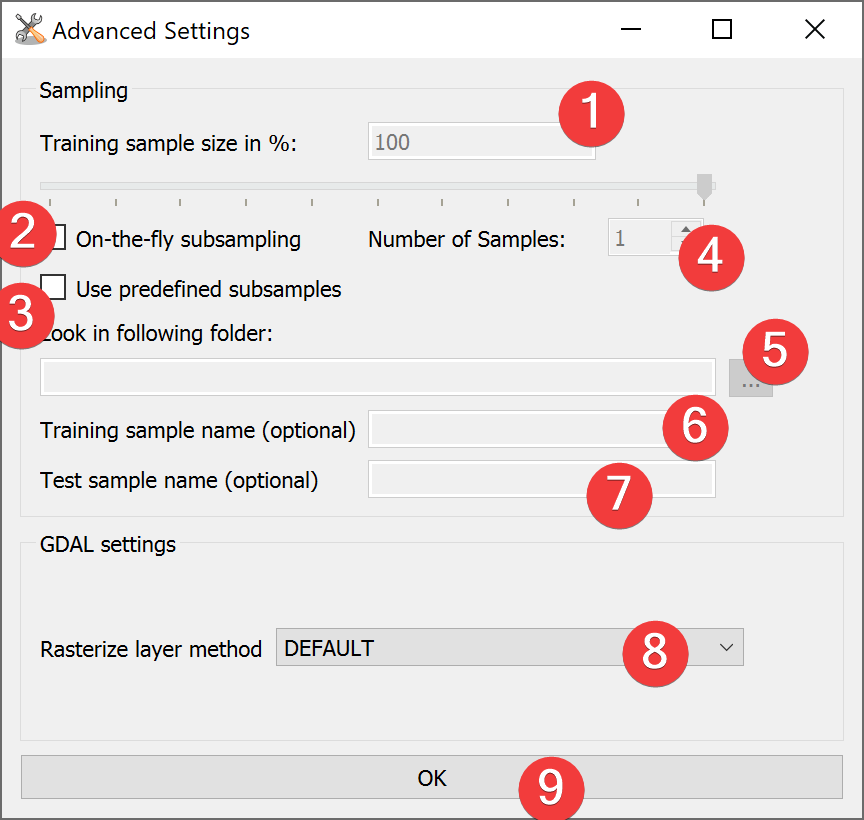
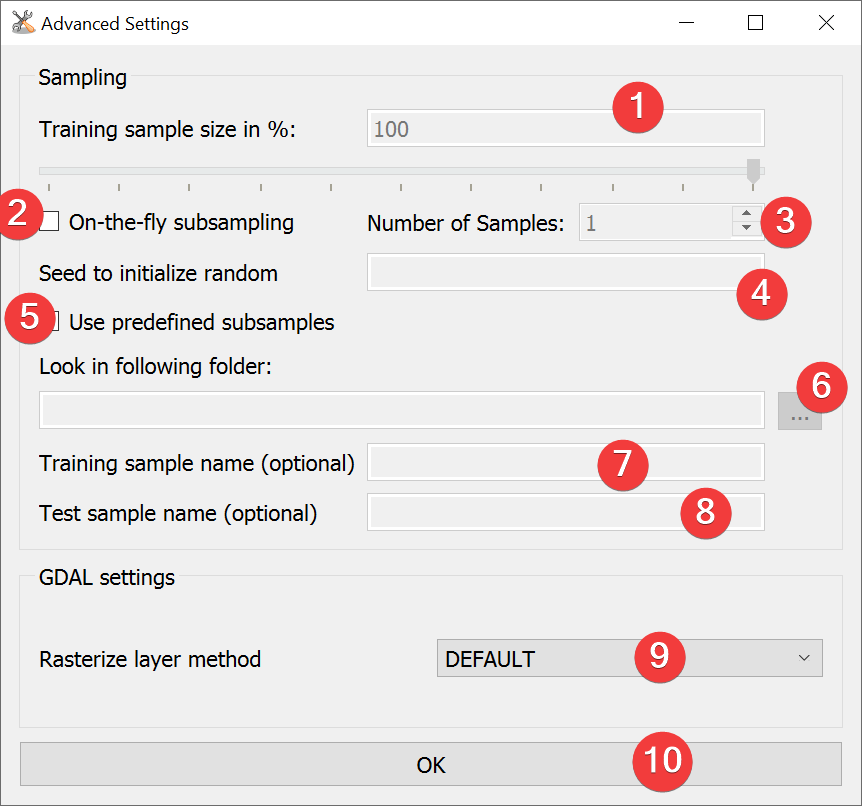
Updated Text and Screenshots to mention on-the-fly subsampling randomseed

diff --git a/source/ANALYSIS/Analysis/WofE.rst b/source/ANALYSIS/Analysis/WofE.rst
@@ -38,26 +38,27 @@ Advanced Settings
 Weight of Evidence uses the same Advanced Settings as
 :doc:`Model Builder</ANALYSIS/ModelManagment/ModelBuilder>`.
 
-#. | Choose between On-the-fly subsampling (2), predefined subsamples (3) or select neither to use
+#. | Choose between On-the-fly subsampling (2), predefined subsamples (5) or select neither to use
    | single sample mode
    
     * On-the-fly subsampling (2)
     
         #. | Set the size of the subsamples as percent of the import feature either by typing a 
            | number (1) or adjusting the slider.
-        #. Set the number of samples to generate on-the-fly
+        #. Set the number of samples to generate on-the-fly (3)
+        #. (Optional) Define a seed to initialize the random function (4)
         
-    * Predefined subsamples (3)
+    * Predefined subsamples (5)
     
         #. | Provide a path to the folder with the predefined subsamples. You can either type in
-           | the absolute path yourself or pick one with a dialog (5).
+           | the absolute path yourself or pick one with a dialog (6).
            
-    * Single sample mode (neither (2) nor (3) selected)
+    * Single sample mode (neither (2) nor (5) selected)
     
-        #. By selecting neither (2) or (3) LSAT will use 100% of the feature.
+        #. By selecting neither (2) or (5) LSAT will use 100% of the feature.
         
-#. (Optional) Change the rasterization method (8)
-#. Select OK (9)
+#. (Optional) Change the rasterization method (9)
+#. Select OK (10)
 
 Information
 ^^^^^^^^^^^

diff --git a/source/ANALYSIS/ModelManagment/ModelBuilder.rst b/source/ANALYSIS/ModelManagment/ModelBuilder.rst
@@ -54,26 +54,27 @@ Advanced Settings
 Model Builder uses the same Advanced Settings as
 :doc:`Weights of Evidence</ANALYSIS/Analysis/WofE>`.
 
-#. | Choose between On-the-fly subsampling (2), predefined subsamples (3) or select neither to use 
+#. | Choose between On-the-fly subsampling (2), predefined subsamples (5) or select neither to use
    | single sample mode
    
     * On-the-fly subsampling (2)
     
         #. | Set the size of the subsamples as percent of the import feature either by typing a 
            | number (1) or adjusting the slider.
-        #. Set the number of samples to generate on-the-fly
+        #. Set the number of samples to generate on-the-fly (3)
+        #. (Optional) Define a seed to initialize the random function (4)
         
-    * Predefined subsamples (3)
+    * Predefined subsamples (5)
     
         #. | Provide a path to the folder with the predefined subsamples. You can either type in
-           | the absolute path yourself or pick one with a dialog (5).
+           | the absolute path yourself or pick one with a dialog (6).
            
-    * Single sample mode (neither (2) nor (3) selected)
+    * Single sample mode (neither (2) nor (5) selected)
     
-        #. By selecting neither (2) or (3) LSAT will use 100% of the feature.
+        #. By selecting neither (2) or (5) LSAT will use 100% of the feature.
         
-#. (Optional) Change the rasterization method (8)
-#. Select OK (9)
+#. (Optional) Change the rasterization method (9)
+#. Select OK (10)
 
 .. _expressionbuilder:
 
